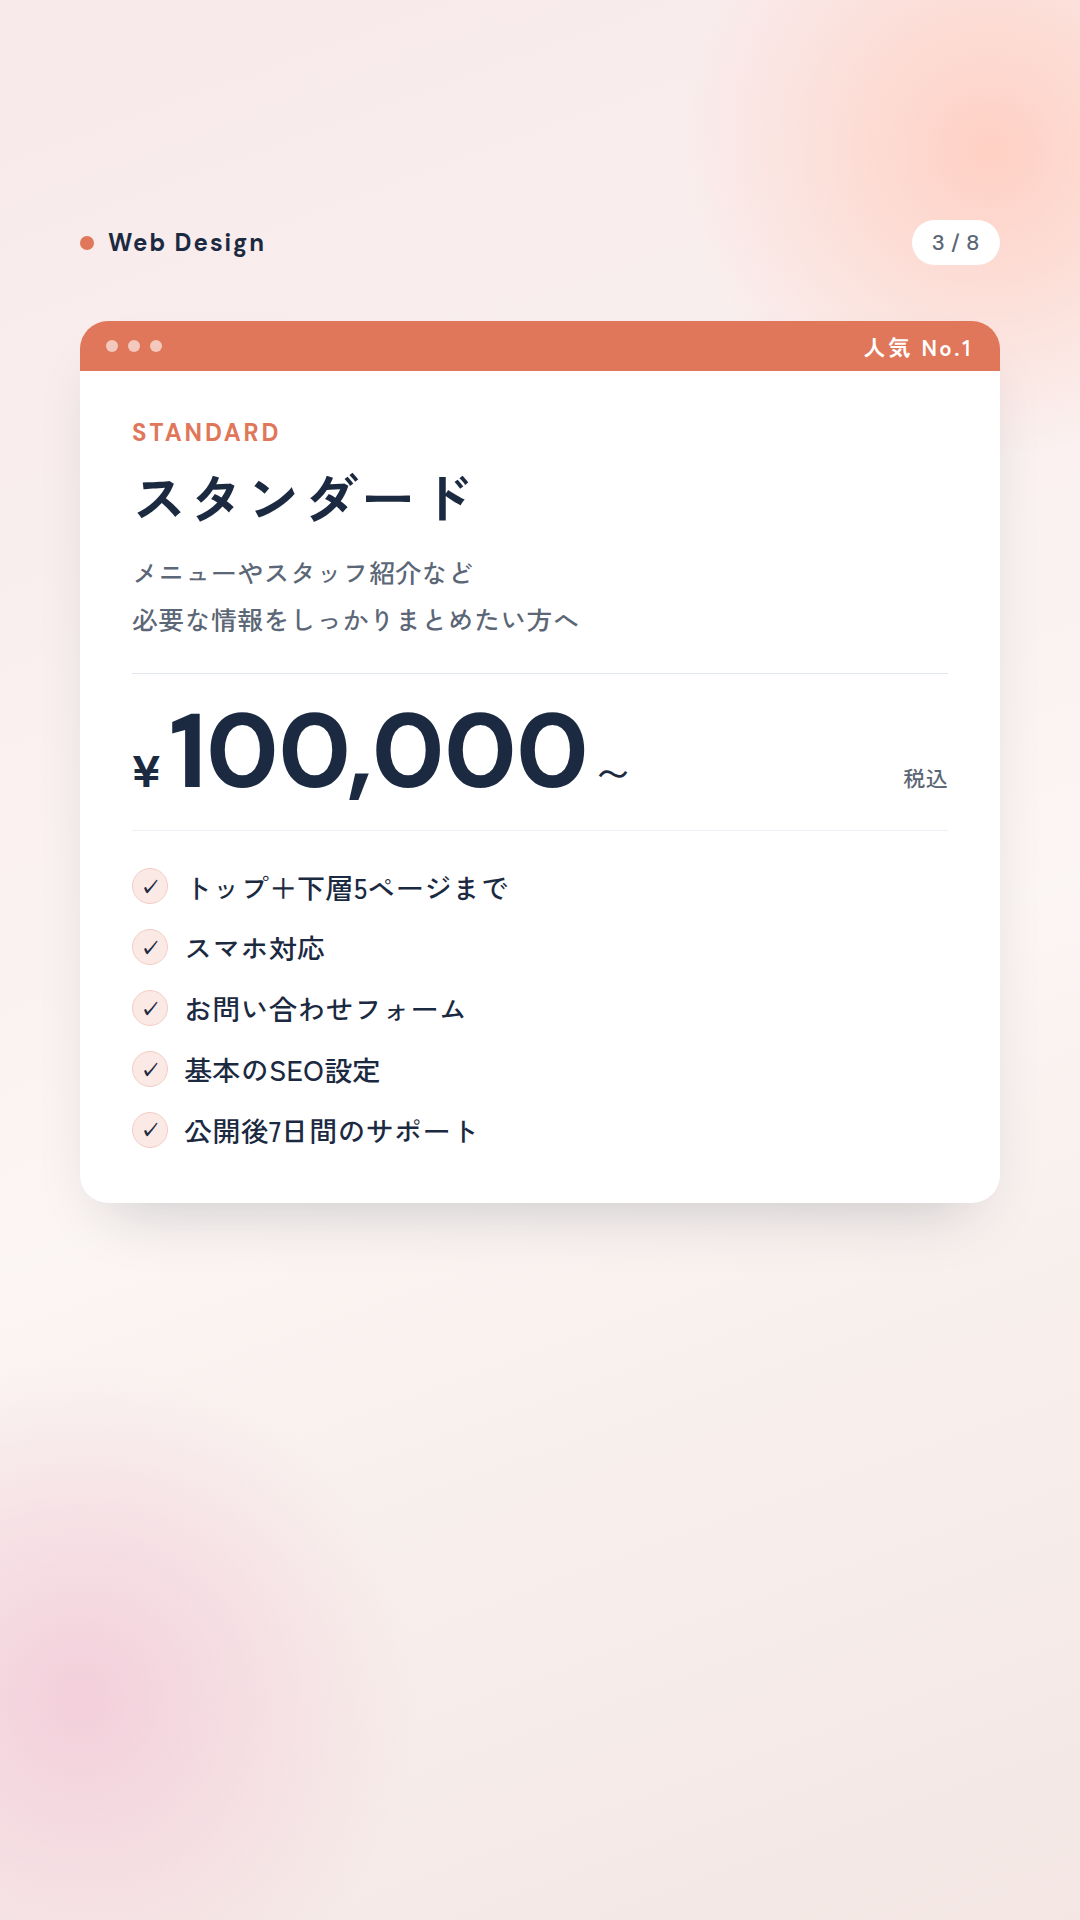
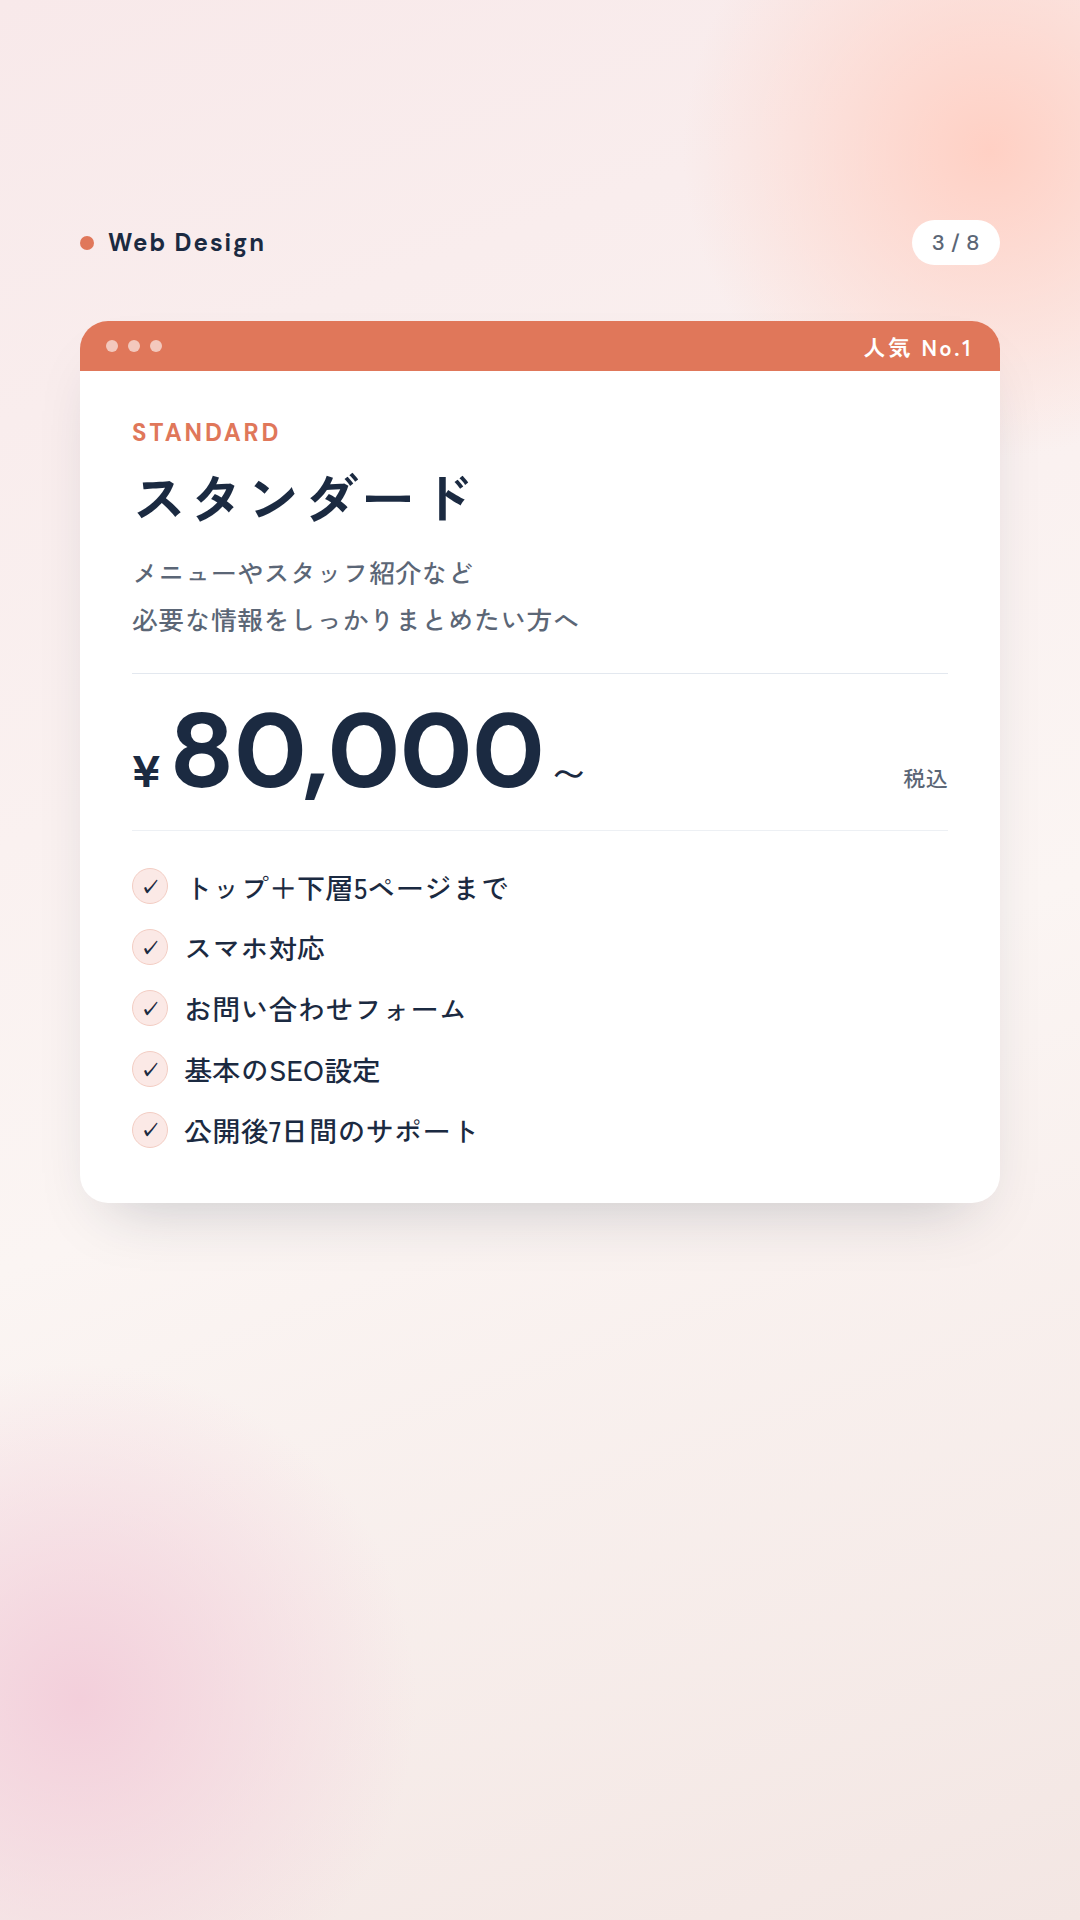
料金プランを5万・8万・10万に変更
サイトの料金表と料金ハイライト画像を新しい金額に更新

Claude-Session: https://claude.ai/code/session_01Ro8zDwZkt9a81nMzgkBjHg

Changed region(s): [[0.1528, 0.3438, 0.55, 0.4375]]

diff --git a/atelier/index.html b/atelier/index.html
@@ -149,7 +149,7 @@
         <article class="plan reveal">
           <p class="plan__en">One page</p>
           <h3>1ページのサイト</h3>
-          <p class="plan__price">¥70,000<small>〜</small></p>
+          <p class="plan__price">¥50,000<small>〜</small></p>
           <p class="plan__for">まずはGoogleマップやインスタのリンク先として、お店の情報をまとめたい方へ</p>
           <ul class="ck"><li>トップページ1枚</li><li>お店に合わせたデザイン</li><li>スマホ対応</li><li>予約サイト・LINEへのボタン</li><li>公開後7日間のサポート</li></ul>
         </article>
@@ -157,14 +157,14 @@
           <p class="plan__badge">人気</p>
           <p class="plan__en">Standard</p>
           <h3>スタンダード</h3>
-          <p class="plan__price">¥100,000<small>〜</small></p>
+          <p class="plan__price">¥80,000<small>〜</small></p>
           <p class="plan__for">メニューやスタッフ紹介など、必要な情報を何ページかに分けてしっかりまとめたい方へ</p>
           <ul class="ck"><li>トップ＋下層5ページまで</li><li>スマホ対応</li><li>お問い合わせフォーム</li><li>基本のSEO設定</li><li>公開後7日間のサポート</li></ul>
         </article>
         <article class="plan reveal">
           <p class="plan__en">Custom</p>
           <h3>オーダーメイド</h3>
-          <p class="plan__price">¥130,000<small>〜</small></p>
+          <p class="plan__price">¥100,000<small>〜</small></p>
           <p class="plan__for">デザインも、予約・問い合わせまでの流れも、しっかり考えたい方へ</p>
           <ul class="ck"><li>トップ＋下層8ページまで</li><li>オリジナルデザイン</li><li>お問い合わせフォーム</li><li>お知らせ・ブログ機能</li><li>アクセス解析の設定</li><li>問い合わせまでの導線づくり</li><li>公開後14日間のサポート</li></ul>
         </article>
